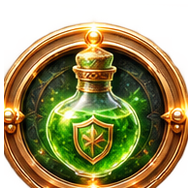
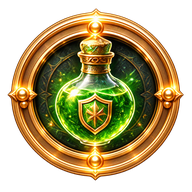
Repair cropped defense elixir frame and align combat label

diff --git a/src/styles.tsx b/src/styles.tsx
@@ -200,8 +200,8 @@ button{font:inherit;color:inherit;background:none;border:none;cursor:pointer}
 .whisper-combat-icon.custom-art img{display:block;width:100%;height:100%;object-fit:contain;pointer-events:none;user-select:none;transform:translateY(4%) scale(1.28)}
 .whisper-combat-action.rune .whisper-combat-icon.custom-art img{transform:translateY(-1%) scale(1.025)}
 .whisper-combat-action.rest .whisper-combat-icon.custom-art{overflow:visible;border-radius:50%}
-.whisper-combat-action.rest .whisper-combat-icon.custom-art img{transform:translateY(-6%) scale(.985)}
-.whisper-combat-action.rest b{margin-top:4px}
+.whisper-combat-action.rest .whisper-combat-icon.custom-art img{transform:translateY(-1%) scale(1.025)}
+.whisper-combat-action.rest b{margin-top:0}
 .mid3d-hero-load{left:50%;top:58%;transform:translate(-50%,-50%);display:flex;flex-direction:column;align-items:center;gap:3px;pointer-events:none;color:#f4d36d;text-shadow:0 2px 8px rgba(0,0,0,.85)}
 .mid3d-hero-load b{font-size:34px;line-height:1;animation:heroRunePulse 1.05s ease-in-out infinite}.mid3d-hero-load span{font-size:9px;letter-spacing:.8px;padding:3px 7px;border-radius:8px;background:rgba(4,9,6,.55)}
 .mid3d-hint{left:50%;bottom:9px;transform:translateX(-50%);padding:6px 10px;border-radius:9px;background:rgba(5,10,7,.68);border:1px solid rgba(126,231,135,.18);color:#d0dfd3;font-size:10px;line-height:1.2;white-space:nowrap;pointer-events:none}
